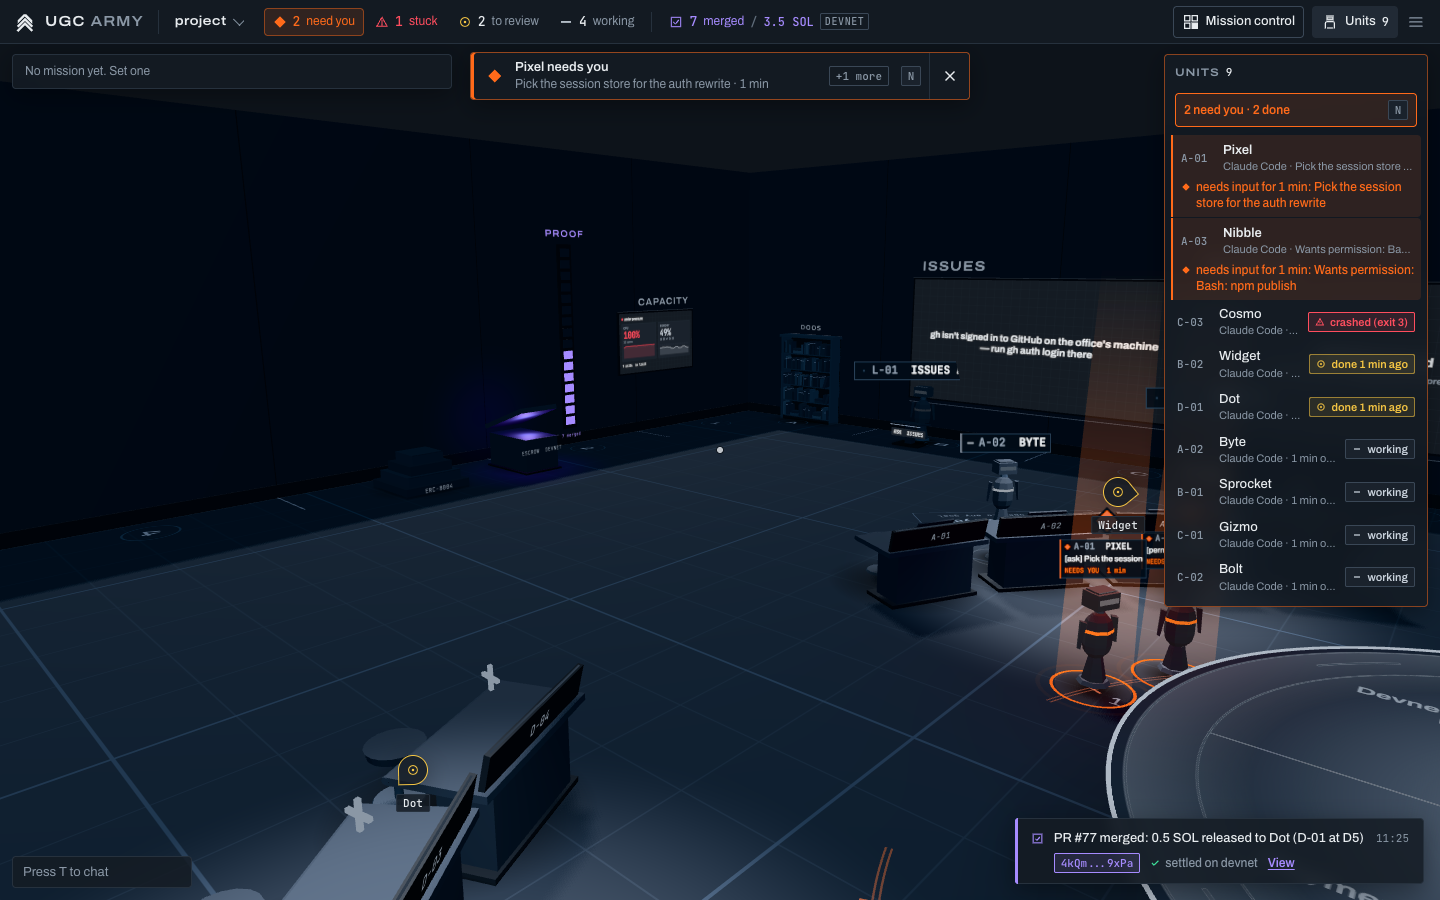
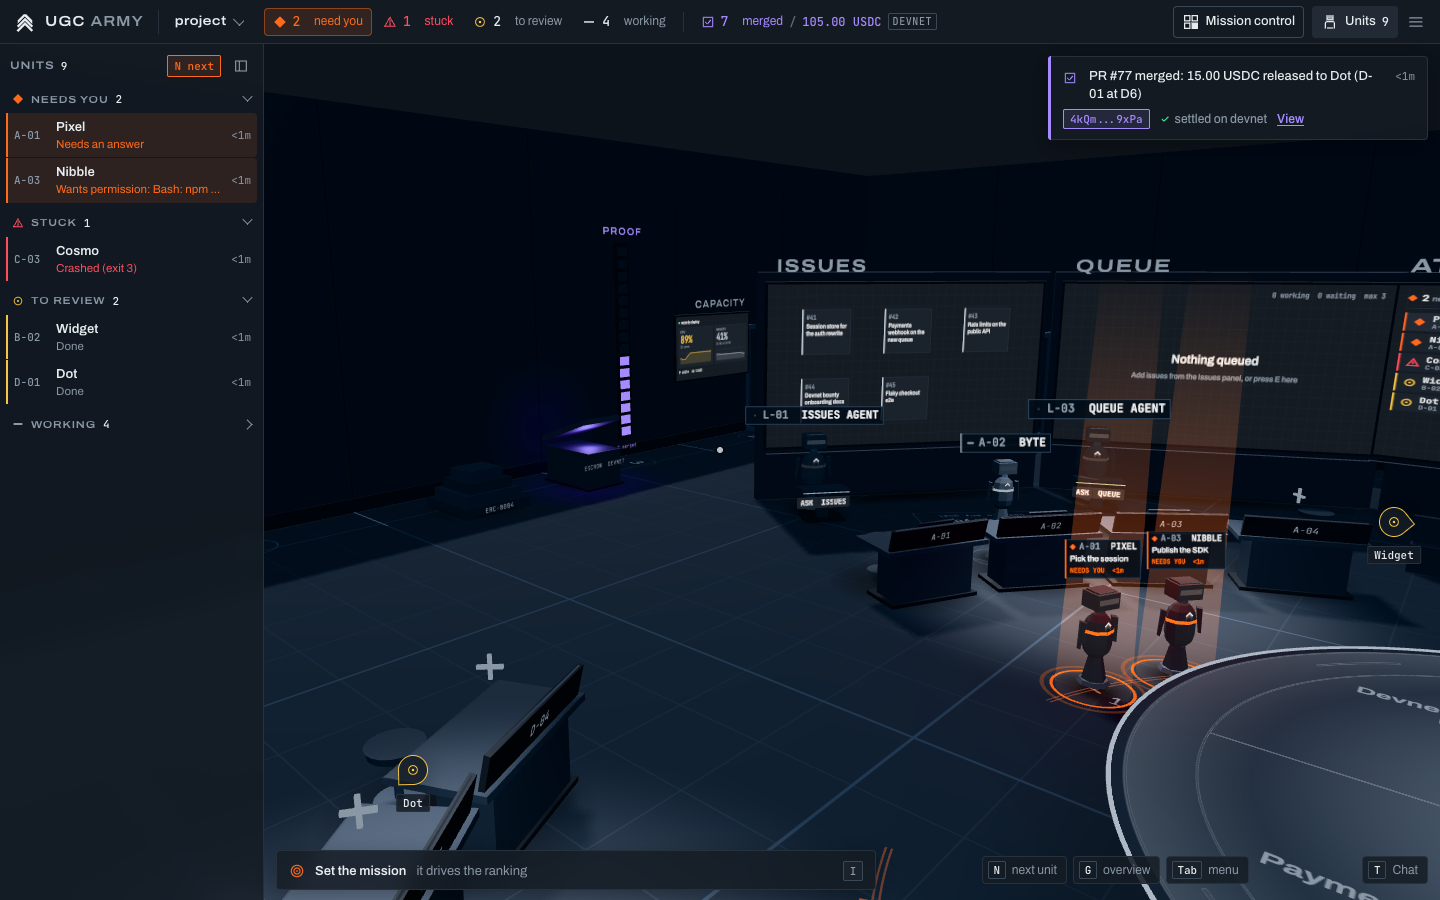
Review round shots, before and after, with the rationale
design/shots/review/ holds the shots the three critics reviewed, and
design/shots/final/ the same views after this round. design/README.md pairs
them and explains why: the product now tells one truth everywhere (counts,
row text, the clock, money), and the frame was rebuilt rather than reskinned
(the deck plan, the HUD, the menu, the copy, the palette). It also lists what
is left for later.

The README and design docs use the new shots. The /pom/ page shows the new
deck render. Ledger rows without a bounty say 'no bounty' instead of '--'.
On a phone, the mission strip shows only the statement.

diff --git a/src/client/showcase/showcase.css b/src/client/showcase/showcase.css
@@ -192,7 +192,7 @@ main { max-width: 1232px; margin: 0 auto; padding: 0 16px 24px; }
 .item .meta { font-size: 12px; color: var(--muted); }
 .item .meta .chip { margin-right: 2px; }
 .item .paid { font: 500 13px var(--font-mono); font-variant-numeric: tabular-nums; text-align: right; white-space: nowrap; }
-.item .paid:empty::before { content: '--'; color: var(--faint); }
+.item .paid:empty::before { content: 'no bounty'; font-size: 11px; color: var(--faint); }
 .item .age { font: 400 11px var(--font-mono); color: var(--faint); white-space: nowrap; min-width: 84px; text-align: right; }
 .links { display: flex; flex-wrap: wrap; gap: 6px; justify-content: flex-end; padding-right: 8px; }
 .proof-chip {

diff --git a/src/client/styles/hud.css b/src/client/styles/hud.css
@@ -186,3 +186,5 @@ body.overview .bb-keys { visibility: hidden; }
 #fade { position: fixed; inset: 0; background: var(--void); opacity: 0; pointer-events: none; transition: opacity .16s ease; z-index: 40; }
 #fade.on { opacity: 1; }
 .people .where { font: 400 11px var(--font-mono); color: var(--muted); white-space: nowrap; overflow: hidden; text-overflow: ellipsis; }
+/* A phone: the mission strip keeps the statement alone. */
+@media (max-width: 640px) { .bottombar :is(.ms-milestone, .ms-unlinked) { display: none; } }

diff --git a/design/README.md b/design/README.md
@@ -1,0 +1,124 @@
+# The review round: before and after
+
+Back to the [README](../README.md) and the [design system](../DESIGN.md).
+
+Three critics (visual, originality and a hackathon judge) reviewed the redesign from the shots in `shots/review/`. This round fixed every item they marked must and most of the should and nice ones. The after shots are in `shots/final/`; `shoot.mjs final` and `node --import tsx shoot-pom.ts final` take them again from a built office.
+
+## Why it changed
+
+The redesign had a new skin on upstream's skeleton. Under the slate and orange, the floor plan, the HUD wireframe, the menu and the README were agent-office's, and someone who laid an upstream screenshot over ours saw the same room. Worse for a judge, the product contradicted itself: the 3D view called a crashed unit stuck while the 2D view called it working, the office paid in SOL while the ledger paid in USDC, labels piled on top of each other in the overview, and the biggest text in the room was a `gh` error.
+
+So this round did two things. It made the product tell one truth everywhere: one ranking, one row text, one clock and one way of writing money, each in a shared module with tests. And it rebuilt the frame instead of reskinning it: a new deck plan, a new HUD layout, a new menu, the product's own words, and its own palette.
+
+## Before and after
+
+### The deck plan
+
+The 36 by 26 m room with the lift mid-north, three boards on the north wall and a glass room in the south-east is now a 32 m square. The work boards and the Attention board stand on a curved situation wall round the north of the mission table, the lift is in the middle of the south curb, and the Review bay is in the north-west corner. The 2D plan and the sign-in backdrop draw the same constants.
+
+| Before | After |
+| --- | --- |
+| ![](shots/review/deck-high.png) | ![](shots/final/deck-high.png) |
+| ![](shots/review/deck-overview.png) | ![](shots/final/deck-overview.png) |
+| ![](shots/review/login.png) | ![](shots/final/login.png) |
+
+### Arrival
+
+You used to arrive facing the whiteboard and an empty corner. Now you step out of the lift looking across the mission table at the Attention board, with pods C and D either side of you and the units that need you on the ready line ahead.
+
+| Before | After |
+| --- | --- |
+| ![](shots/review/office.png) | ![](shots/final/office.png) |
+
+### The HUD frame
+
+The Units list is a full-height rail down the left, grouped by state, with a 2px rule for the state instead of a wide badge. It folds to call signs, and folds by itself for a merge beat. The top bar is the only surface that counts. The floating needs-you banner is gone: a toast in the single stack names the unit, then folds into the counter, which pulses. The mission strip, the key hints and the chat chip live in a bottom bar, and *Click to look around* no longer sits in the middle of the deck.
+
+| Before | After |
+| --- | --- |
+| ![](shots/review/office-workers.png) | ![](shots/final/toasts.png) |
+| ![](shots/review/toasts.png) | ![](shots/final/rail-folded.png) |
+
+### Labels that never collide
+
+Callouts are placed in ranking order. A callout in the way lifts a little, then shrinks to its call sign. A working unit's callout hides when there is no room, and a callout for a unit that needs someone always shows. The state glyph no longer floats over a neighbour's name.
+
+| Before | After |
+| --- | --- |
+| ![](shots/review/demo.png) | ![](shots/final/demo.png) |
+| ![](shots/review/units-near.png) | ![](shots/final/units-near.png) |
+
+### One truth: counts, rows and money
+
+Walking onto a deck used to wake every exited process, so a crash vanished from every view but the one that saw it. A crashed unit now stays stuck until a person resumes it, and the 3D top bar, the 2D view and Mission control count the same fixture the same way (`tests/one-truth.test.ts`). Each row has one title with its [tag] as a chip, one status phrase with no time in it, and one relative time. Bounties are devnet USDC everywhere, written one way.
+
+| Before | After |
+| --- | --- |
+| ![](shots/review/lite.png) | ![](shots/final/lite.png) |
+| ![](shots/review/mission-attention.png) | ![](shots/final/mission.png) |
+| ![](shots/review/mission-review.png) | ![](shots/final/mission-review.png) |
+
+### Goals and the mission strip
+
+When there is no mission, the strip is a call to action: a target icon and *Set the mission*. The Goals tab explains why a mission matters, offers a primary *Write the mission* button and an example to use, and the window fits its content.
+
+| Before | After |
+| --- | --- |
+| ![](shots/review/mission-goals.png) | ![](shots/final/mission-goals-empty.png) |
+
+### Phones
+
+A phone opens the 2D view. A phone that asks for 3D gets a single surface: glyph-and-number counters in fixed widths, the Units rail as a bottom sheet, and no keyboard hints.
+
+| Before | After |
+| --- | --- |
+| ![](shots/review/office-phone.png) | ![](shots/final/office-phone-sheet.png) |
+| ![](shots/review/lite-phone.png) | ![](shots/final/phone-redirect.png) |
+
+### The menu, decks and settings
+
+The menu is grouped by the product's jobs: Command, Work, Proof and Deck, with Comms folded at the bottom and the HUD layers shown as chips. The UI says deck everywhere. Each Deck lift row shows its path shortened to the repo and its folder, its units as the top bar's chips, and a delete action behind a kebab menu and a confirm. A selected segment is filled, not just outlined.
+
+| Before | After |
+| --- | --- |
+| ![](shots/review/menu.png) | ![](shots/final/menu.png) |
+| ![](shots/review/floors.png) | ![](shots/final/floors.png) |
+| ![](shots/review/settings.png) | ![](shots/final/settings.png) |
+
+### Honest wall boards
+
+A board that can't reach GitHub shows its own name, a link glyph and *Connect GitHub to see it here*; the command to run stays in the board's window. With gh signed in (seeded in the shots), the boards show the work.
+
+| Before | After |
+| --- | --- |
+| ![](shots/review/beat-landed.png) | ![](shots/final/boards-offline.png) |
+
+### The unit console
+
+The terminal has a column for the unit beside it: call sign, state, harness, branch, PR and the bounty it would earn. It has padding, the quick keys form one control in the reply bar, and *Pin a link* replaces the dashed *+ Web page* button.
+
+| Before | After |
+| --- | --- |
+| ![](shots/review/terminal.png) | ![](shots/final/terminal.png) |
+
+### The Proof ledger
+
+The four totals share one uppercase label style, and the header names the last merge and the last attestation separately. Thin rates say *needs 5 outcomes*. Self-merged rows are dimmed and explained. Live units carry call signs, and the deck render is the new plan. The office's `/pom/` while the showcase is off is a branded page that says how to turn it on.
+
+| Before | After |
+| --- | --- |
+| ![](shots/review/pom-dark-desktop-top.png) | ![](shots/final/pom-dark-desktop-top.png) |
+| ![](shots/review/pom.png) | ![](shots/final/pom.png) |
+
+## Also in this round
+
+- The product calls itself UGC Army wherever agents, tools and commits see it: prompts, the MCP serverInfo, meeting commits, generated config and the CLI help (`ugc-army` is a bin alias). Server strings are plain ASCII with no emoji, units stand down rather than go home, and `tests/copy.test.ts` keeps it that way.
+- The README is written in the fork's own words, with one upstream credit block. The credit everywhere names AgentSystemLabs and webdevcody. LICENSE adds a line for the fork, and NOTICE lists what was replaced.
+- One data palette (`src/shared/datacolors.ts`) replaces upstream's pastels for yokes, workers, signs and pins. Saved colours are remapped by their index.
+- Each unit wears the Formation mark on its chest plate.
+
+## Left for later
+
+- The installers and deploy scripts still fetch upstream releases, until the fork publishes its own.
+- The `/pom/` ledger shows who merged as a keyed pseudonym, not a GitHub login, because the chain does not hold accounts.
+- The ledger shots still use fixture data from `acme/app`. Before submission, take them from real devnet data on a public repository.
